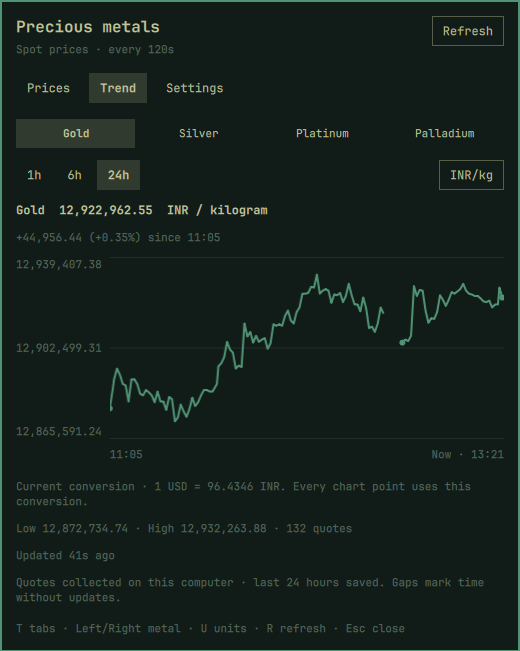
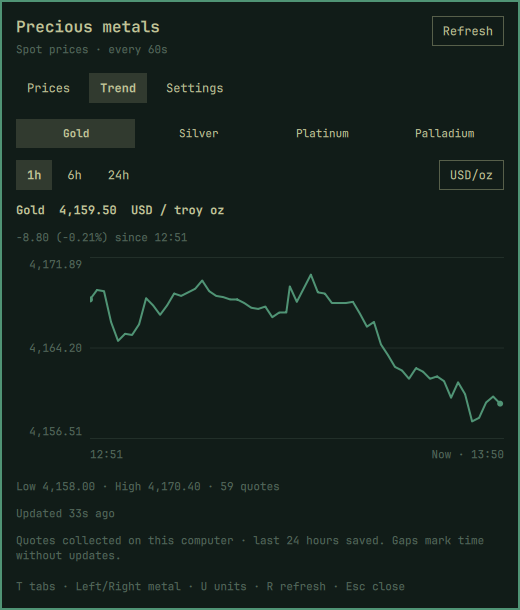
Show USD prices and trends in repository screenshots

diff --git a/README.md b/README.md
@@ -2,7 +2,7 @@
 
 A native Quickshell bar plugin for Omarchy Quattro. Gold and silver appear in the bar by default; click for four-metal prices, locally collected trends, and settings for currency, weight unit and bar display.
 
-![Precious Metals Trend tab](preview.png)
+![Precious Metals Trend tab showing gold in USD per troy ounce](preview.png)
 
 ## Install
 
@@ -68,6 +68,10 @@ omarchy bar move io.github.hussainanjar.precious-metals --section center
 Settings are stored in the widget's entry in `~/.config/omarchy/shell.json`. The popup rejects invalid settings; externally configured refresh intervals are clamped to 30–3600 seconds. Old `displayMode` preferences remain supported when no explicit currency/unit setting exists.
 
 ## Pricing and freshness
+
+Example Prices tab with **USD / troy ounce** selected:
+
+![Precious Metals Prices tab showing all four metals in USD per troy ounce](usd-prices-preview.png)
 
 Prices come from the public [Gold API](https://gold-api.com/docs) `/price/XAU`, `/price/XAG`, `/price/XPT` and `/price/XPD` endpoints. The provider calls these real-time spot quotes. This widget polls them every 60 seconds by default; it is not a streaming tick feed. Manual refresh respects the provider's [30-second cache guidance](https://gold-api.com/llms.txt). All monitors share one feed and one history.
 
